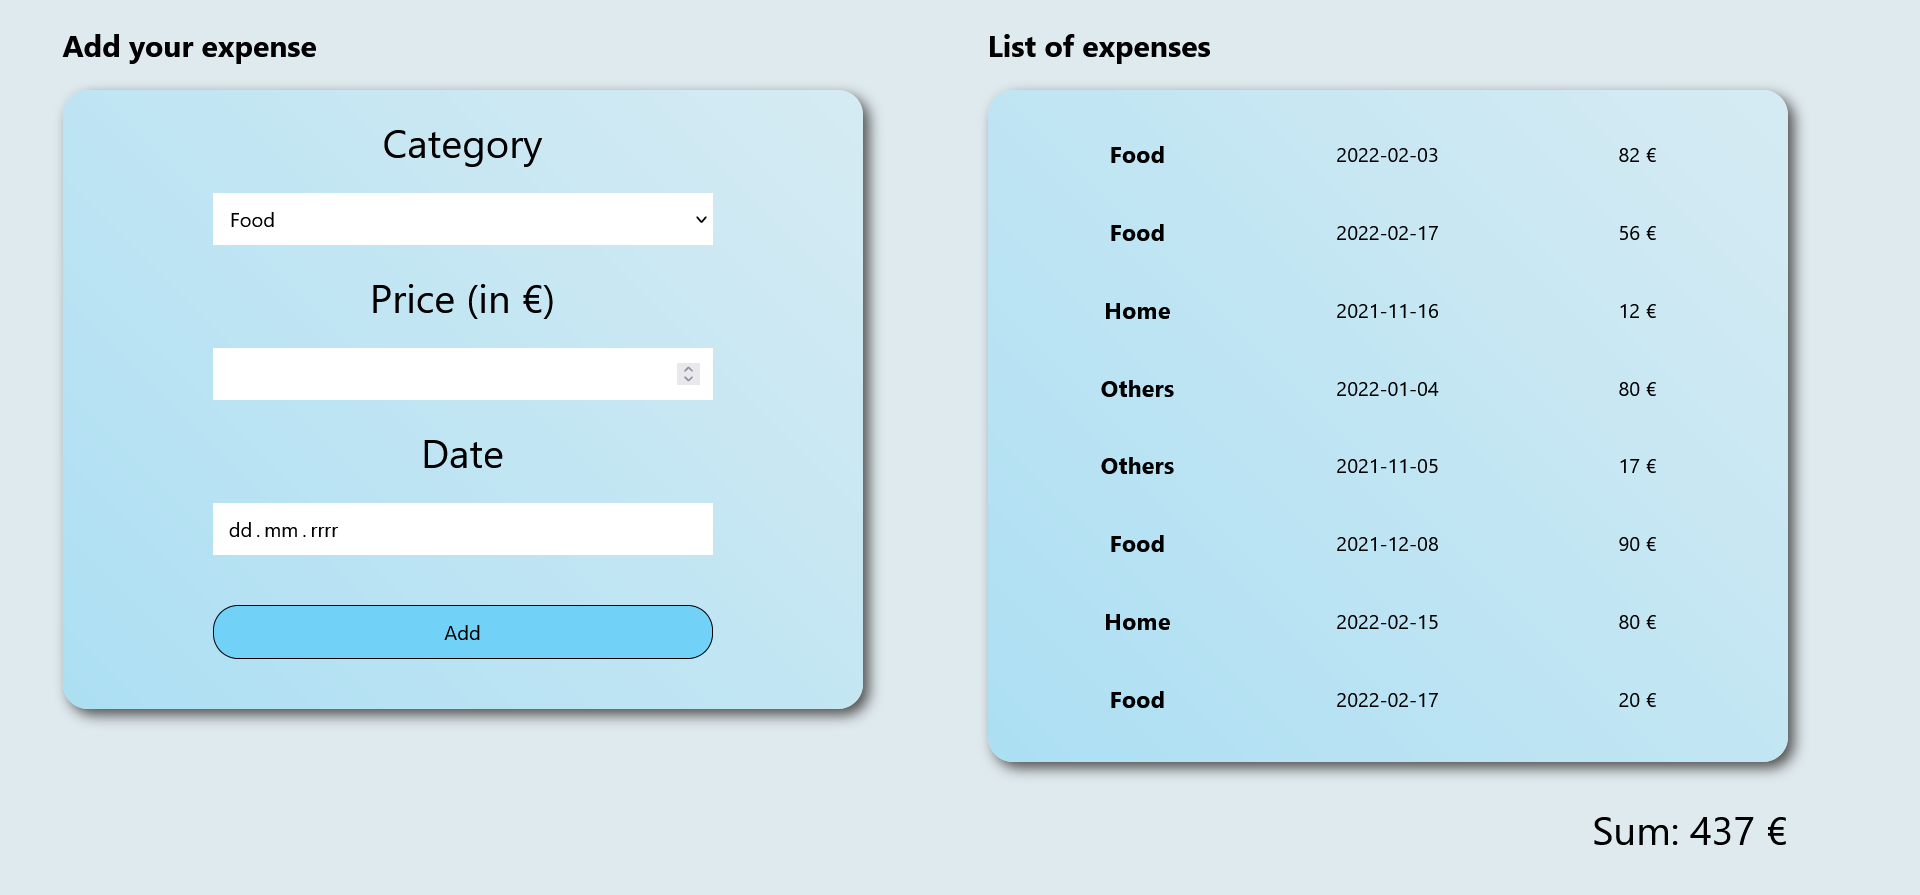
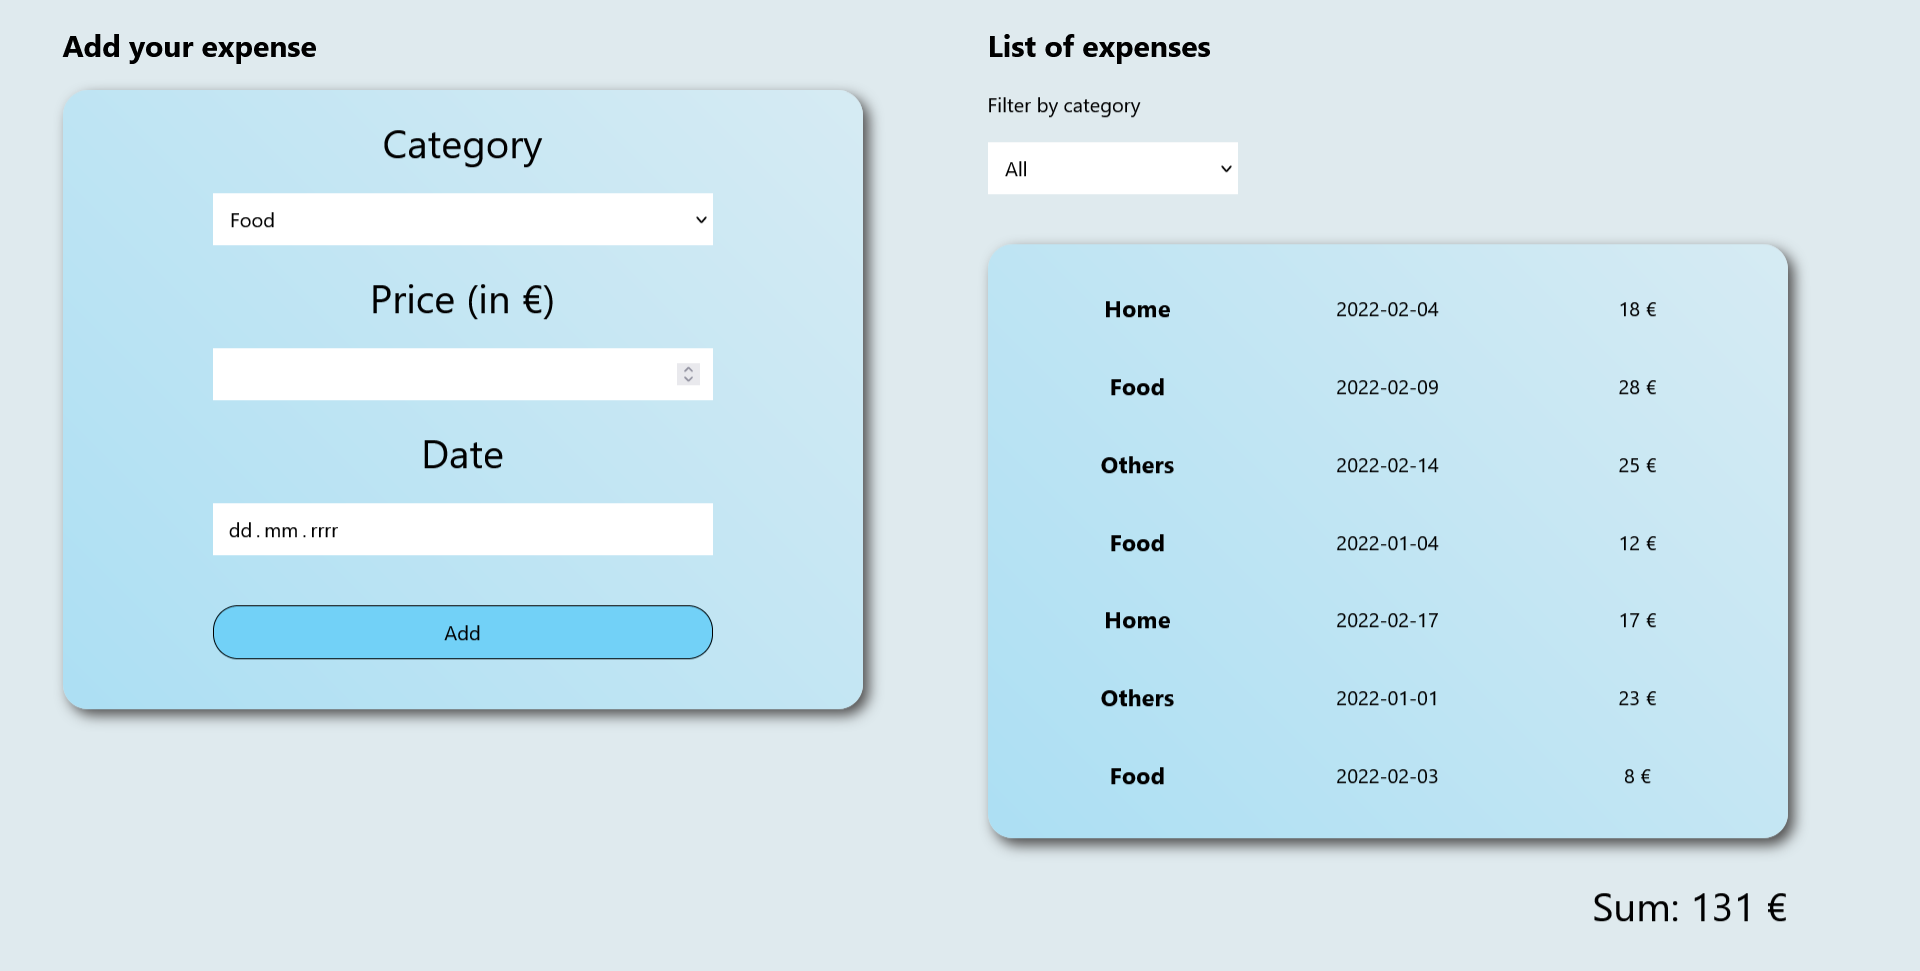
database project added

diff --git a/index.html b/index.html
@@ -73,9 +73,9 @@
       >
       </portfolio-box>
       <portfolio-box 
-        urlAddress="https://github.com/RoksanaRebiewska/data-form-no-database"
+        urlAddress="https://github.com/RoksanaRebiewska/expenses-database"
         title="Expenses form"
-        description="Expenses form with summary build in React. No database connection, only current data displayed. Contains 3 fields, one select and 2 inputs with validation."
+        description="Expenses form with summary build in React. Connection to database, option to filter expenses by category, sum displayed."
         imageUrl = "./assets/images/web-preview7.png"
         backgroundPosition="top"
         >
